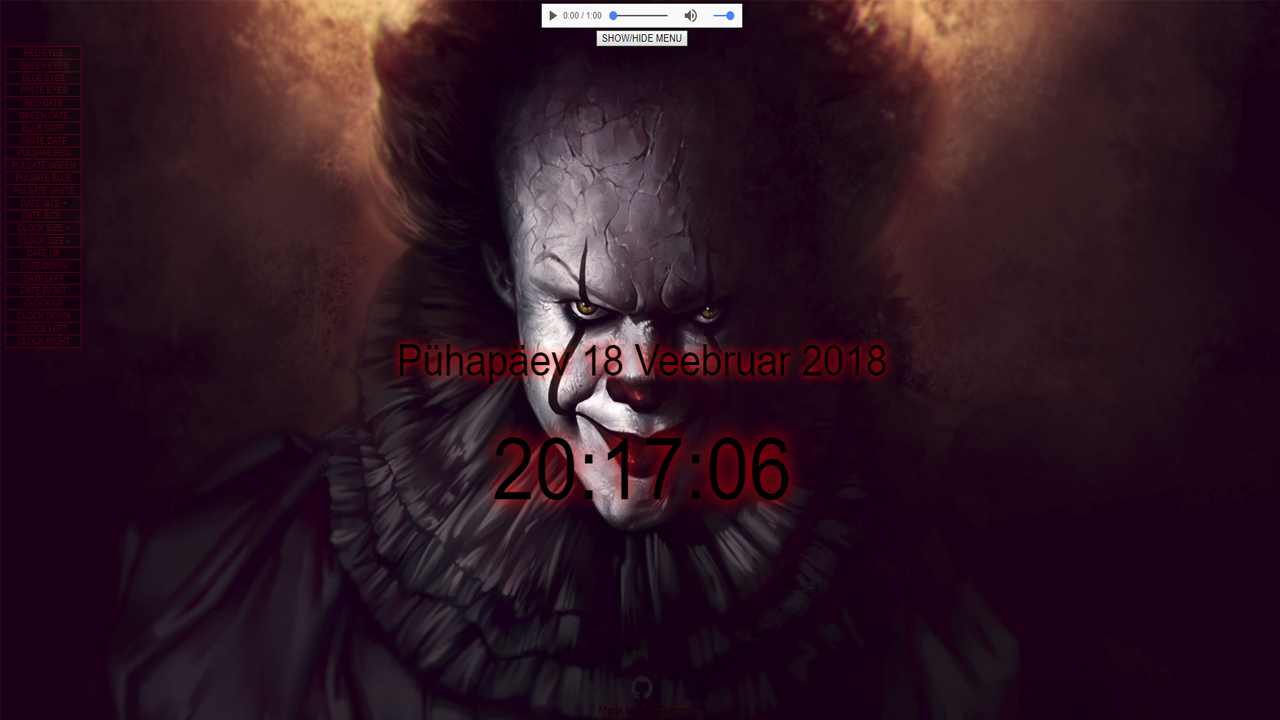
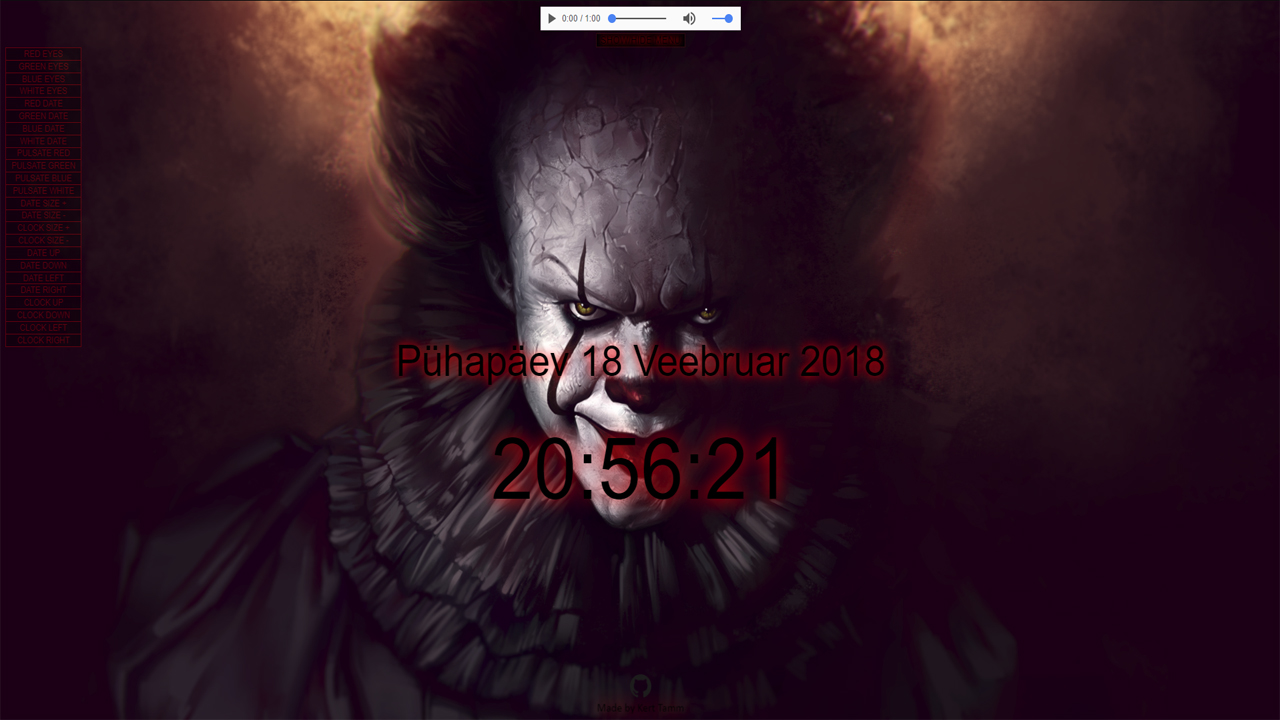
beautified code and added effects to menu button

diff --git a/menuButtons.js b/menuButtons.js
@@ -1,0 +1,176 @@
+var dateDefaultSize = 3; //Global start variable for Date text size
+var clockDefaultSize = 6; //Global start variable for Clock text size
+
+// Clock size + function
+$(document).ready(function() {
+    $("#dateLarger").click(function(){
+        dateDefaultSize++;
+        $(".date1").css("font-size", dateDefaultSize+"vw" );
+        $("#dateLarger").text(counter);
+    });
+});
+
+// Date size -
+$(document).ready(function() {
+    $("#dateSmaller").click(function(){
+        dateDefaultSize--;
+        $(".date1").css("font-size", dateDefaultSize+"vw" );
+        $("#dateSmaller").text(counter);
+    });
+});
+
+// Clock size +
+$(document).ready(function() {
+    $("#clockLarger").click(function(){
+        clockDefaultSize++;
+        $(".clockClass").css("font-size", clockDefaultSize+"vw" );
+        $("#clockLarger").text(counter);
+    });
+});
+
+// Clock size -
+$(document).ready(function() {
+    $("#clockSmaller").click(function(){
+        clockDefaultSize--;
+        $(".clockClass").css("font-size", clockDefaultSize+"vw" );
+        $("#clockSmaller").text(counter);
+    });
+});
+
+// Global date position variables at startup
+var dateDefaultPositionVertical = 50;
+var dateDefaultPositionHorizontal = 50;
+
+// Move date up
+$(document).ready(function() {
+    $("#dateUp").click(function(){
+        dateDefaultPositionVertical--;
+        $(".date1").css("top", dateDefaultPositionVertical+"%" );
+        $("#dateUp").text(counter);
+    });
+});
+
+// Move date down
+$(document).ready(function() {
+    $("#dateDown").click(function(){
+        dateDefaultPositionVertical++;
+        $(".date1").css("top", dateDefaultPositionVertical+"%" );
+        $("#dateDown").text(counter);
+    });
+});
+
+// Move date left
+$(document).ready(function() {
+    $("#dateLeft").click(function(){
+        dateDefaultPositionHorizontal--;
+        $(".date1").css("left", dateDefaultPositionHorizontal+"%" );
+        $("#dateLeft").text(counter);
+    });
+});
+
+// Move date right
+$(document).ready(function() {
+    $("#dateRight").click(function(){
+        dateDefaultPositionHorizontal++;
+        $(".date1").css("left", dateDefaultPositionHorizontal+"%" );
+        $("#dateRight").text(counter);
+    });
+});
+
+// Global clock position variables at startup
+var clockDefaultPositionVertical = 65;
+var clockDefaultPositionHorizontal = 50;
+
+// Move clock up
+$(document).ready(function() {
+    $("#clockUp").click(function(){
+        clockDefaultPositionVertical--;
+        $(".clockClass").css("top", clockDefaultPositionVertical+"%" );
+        $("#clockUp").text(counter);
+    });
+});
+
+// Move clock down
+$(document).ready(function() {
+    $("#clockDown").click(function(){
+        clockDefaultPositionVertical++;
+        $(".clockClass").css("top", clockDefaultPositionVertical+"%" );
+        $("#clockDown").text(counter);
+    });
+});
+
+// Move clock left
+$(document).ready(function() {
+    $("#clockLeft").click(function(){
+        clockDefaultPositionHorizontal--;
+        $(".clockClass").css("left", clockDefaultPositionHorizontal+"%" );
+        $("#clockLeft").text(counter);
+    });
+});
+
+// Move clock right
+$(document).ready(function() {
+    $("#clockRight").click(function(){
+        clockDefaultPositionHorizontal++;
+        $(".clockClass").css("left", clockDefaultPositionHorizontal+"%" );
+        $("#clockRight").text(counter);
+    });
+});
+
+// Red Eyes/Date/Clock
+function redEyes() {
+    $("body").css("background-color", "rgb(255,0,0)");
+}
+
+function redDate() {
+    $(".date1").css("text-shadow", "0px 0px 20px rgb(255, 0, 0)");
+}
+function pulsateRedClock() {
+    $(".clockClass").css("animation", "pulsateRed 1s ease infinite");
+}
+
+// Green Eyes/Date/Clock
+function greenEyes() {
+    $("body").css("background-color", "rgb(0,255,0)");
+}
+
+function greenDate() {
+    $(".date1").css("text-shadow", "0px 0px 20px rgb(0, 255, 0)");
+}
+function pulsateGreenClock() {
+    $(".clockClass").css("animation", "pulsateGreen 1s ease infinite");
+}
+
+// Blue Eyes/Date/Clock
+function blueEyes() {
+    $("body").css("background-color", "rgb(0,0,255)");
+}
+
+function blueDate() {
+    $(".date1").css("text-shadow", "0 0 20px rgb(0, 0, 255)");
+}
+function pulsateBlueClock() {
+    $(".clockClass").css("animation", "pulsateBlue 1s ease infinite");
+}
+
+// White Eyes/Date/Clock
+function whiteEyes() {
+    $("body").css("background-color", "rgb(255,255,255)");
+}
+
+function whiteDate() {
+    $(".date1").css("text-shadow", "0 0 20px rgb(255, 255, 255)");
+}
+function pulsateWhiteClock() {
+    $(".clockClass").css("-animation", "pulsateWhite 1s ease infinite");
+}
+
+
+function menuHiding() {
+    var x = document.getElementById("div2");
+    if (x.style.display === "none") {
+        x.style.display = "block";
+    } else {
+        x.style.display = "none";
+    }
+}

diff --git a/buttons.css b/buttons.css
@@ -1,35 +1,3 @@
-/*#p1 {
-    position: left;
-    background-color:rgb(0, 0, 0); opacity:0.8;
-    position: fixed;
-    text-align: center;
-    top: 5px;
-    left: 5px;
-}*/
-/*
-txtshadow {
-    text-shadow: 0px 0px 5px red;  
-}
-*/
-/*.button {
-    background-color: #4CAF50; /* Green *//*
-    border: none;
-    color: white;
-    padding: 16px 32px;
-    text-align: center;
-    text-decoration: none;
-    display: inline-block;
-    font-size: 16px;
-
-    -webkit-transition-duration: 1s; /* Safari *//*
-    transition-duration: 1s;
-    cursor: pointer;
-    position: fixed;
-    top: 1%;
-    left: 5%;
-    transform: translate(-50%, -50%);
-}*/
-
 /* Menu button class */
 .btn-group .button {
     background-color: rgb(0, 0, 0);
@@ -63,18 +31,20 @@ txtshadow {
     text-shadow: 0px 0px 15px rgb(255, 0, 0);
     opacity: 1;    
 }
-/*
-.button1 {
+
+.menuHide {
     background-color: #000; 
-    color: black; 
-    border: 2px solid rgb(255, 3, 3);
-    text-shadow: 0px 0px 20px red;
+    color: rgb(0, 0, 0); 
+    border: 1px solid rgb(51, 7, 7);
+    text-shadow: 0px 0px 10px red;
+    opacity: 0.8;
 
 }
-*/
 
-/*.button1:hover {
+.menuHide:hover {
     background-color: black;
     color: red;
-    text-shadow: 0px 0px 30px blue;
-}*/
+    border: 1px solid rgb(255, 0, 0);
+    text-shadow: 0px 0px 20px rgb(255, 0, 0);
+    opacity: 1;
+}

diff --git a/index.html b/index.html
@@ -9,7 +9,7 @@
     <link rel="stylesheet" type="text/css" href="buttons.css">
     <script src="https://ajax.googleapis.com/ajax/libs/jquery/3.3.1/jquery.min.js"></script>
     <script src="clock.js"></script>
-    <script src="colorButtons.js"></script>
+    <script src="menuButtons.js"></script>
 </head>
 <body>
 
@@ -17,10 +17,11 @@
 <audio controls loop>
 <source src="scary.mp3" type="audio/ogg">
 </audio>
+<!-- Display date/clock/menu hide/show button-->
     <div id="Date" class="date1"></div>
     <div id="clock" class="clockClass"></div>  
     <div class="btn-group"></div>
-    <button class="button" onclick="menuHiding()">SHOW/HIDE MENU</button>
+    <button class="menuHide" onclick="menuHiding()">SHOW/HIDE MENU</button>
     <div id="div2">
 <!--Eye color buttons-->
     <div class="btn-group">
@@ -56,7 +57,6 @@
     <button class="button" onclick="moveClockRight()" id="clockRight";>CLOCK RIGHT</button>
     </div>
     </div>
-
     <footer>
         <authorName>Made by Kert Tamm</authorName>
         <authorRepoLink>

diff --git a/design.css b/design.css
@@ -1,5 +1,5 @@
 body{
-    background-color: #000;
+    background-color: rgb(0, 0, 0);
     text-align: center;    
     font-family: 'Arial', sans-serif;
     /*placement of the background image*/
@@ -9,15 +9,6 @@ body{
     background-attachment: fixed;
     background-position: center;
 }
-
-/*div{
-    position: fixed;
-    top: 50%;
-    left: 50%;
-    transform: translate(-50%, -50%);
-    margin: 0 auto;
-}
-*/
 
 .date1{
     position: fixed;
@@ -92,21 +83,6 @@ authorName {
     animation:pulseAuthorName 5s ease infinite;
     animation-name: pulsateRed;
 }
-/*
-authorRepoLink {
-    color: rgb(0, 0, 0);
-    position: fixed;
-    left: 50%;
-    transform: translate(-50%, -50%);
-    margin: 0 auto;
-    text-align: fixed;
-    font-size: 0.3vw;
-    text-shadow: 0px 0px 15px rgb(255, 0, 0);
-    bottom: 1%;
-    font-family: 'calibri', cursive;
-    animation:pulseAuthorName 3s ease infinite;
-    animation-name: pulsateRed;
-}*/
 
 authorRepoLink {
     position: fixed;
